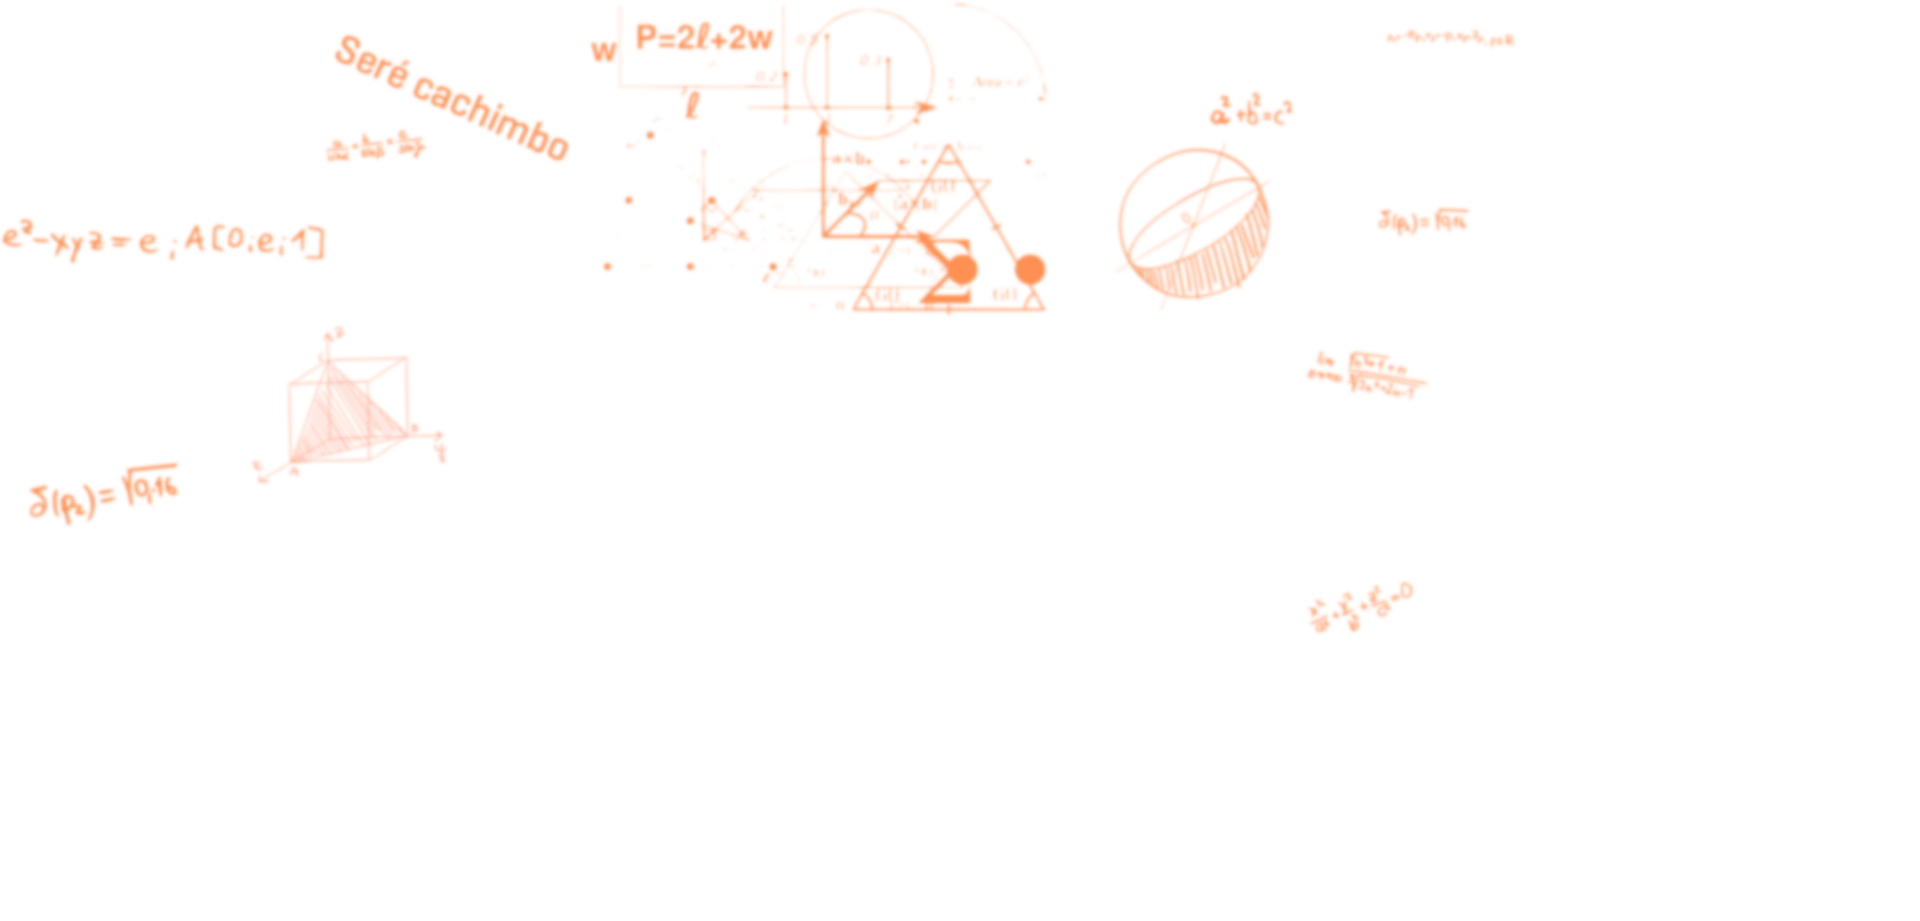
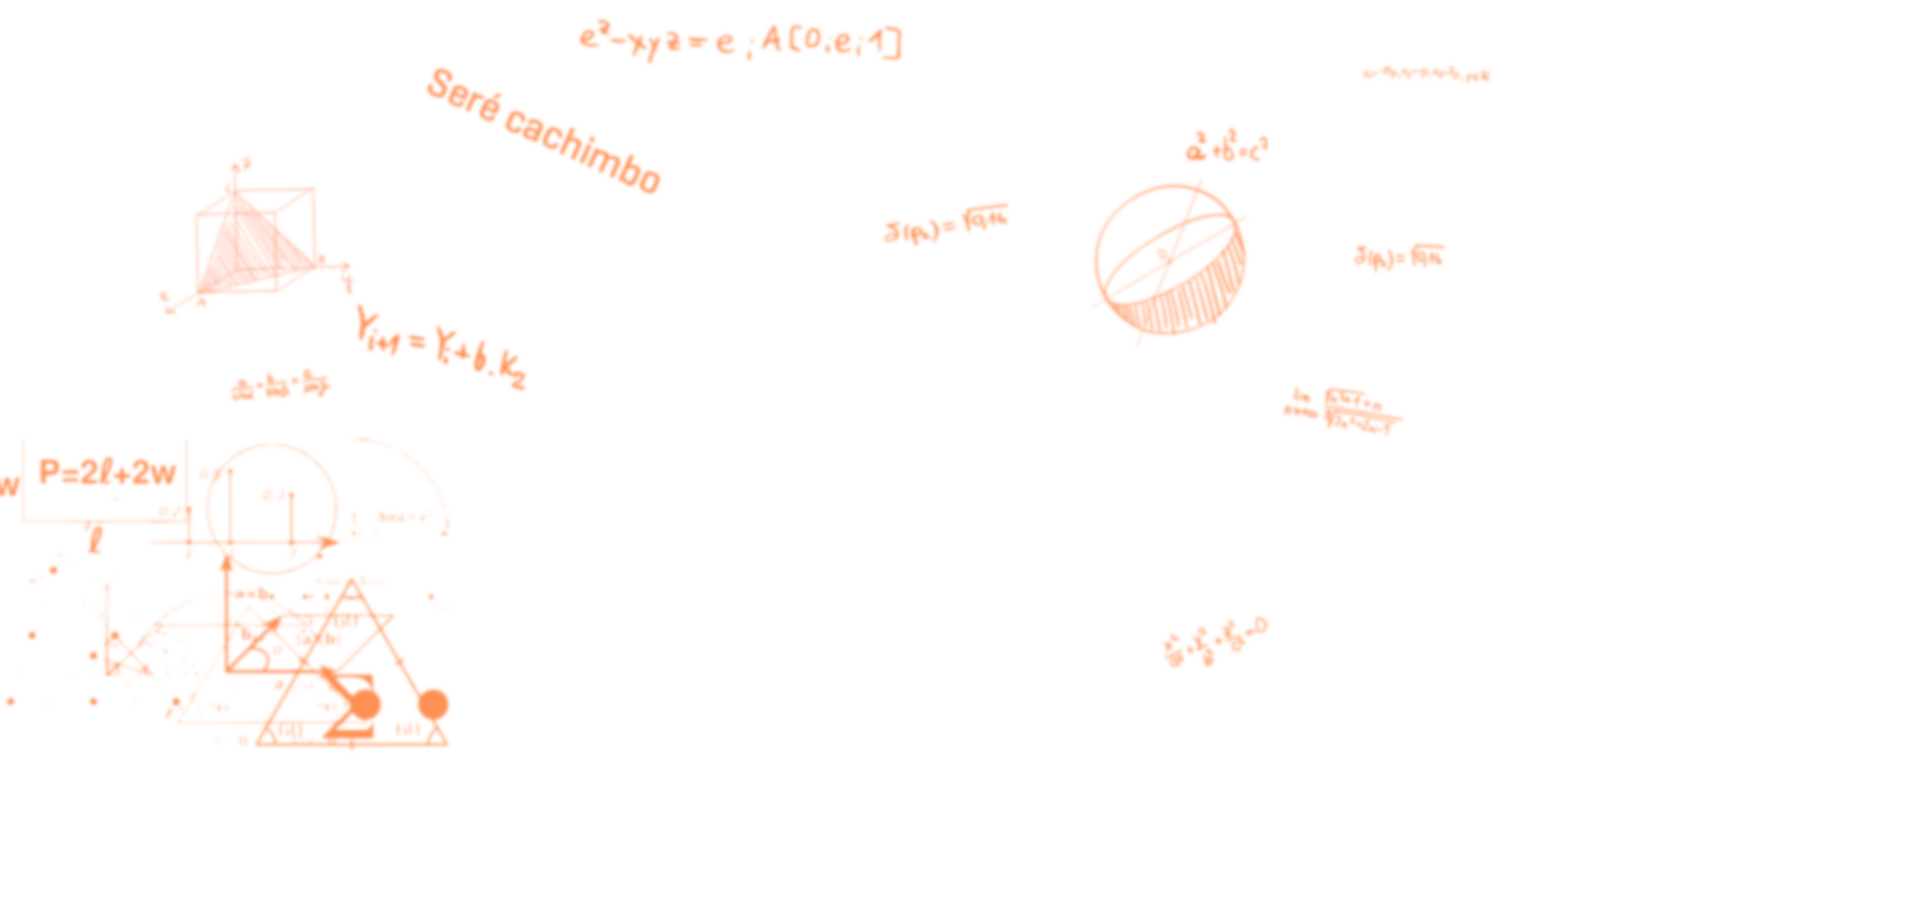
changes

diff --git a/resources/assets/sass/pages/home2.scss b/resources/assets/sass/pages/home2.scss
@@ -170,7 +170,7 @@ body{
     width: calc(35vw);
     height: 45vw;
     position: relative;
-    right: -110px;
+    right: -40px;
   }
 }
 
